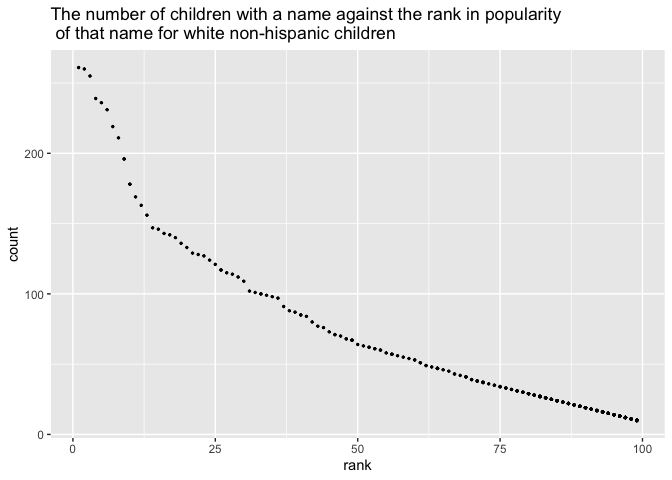
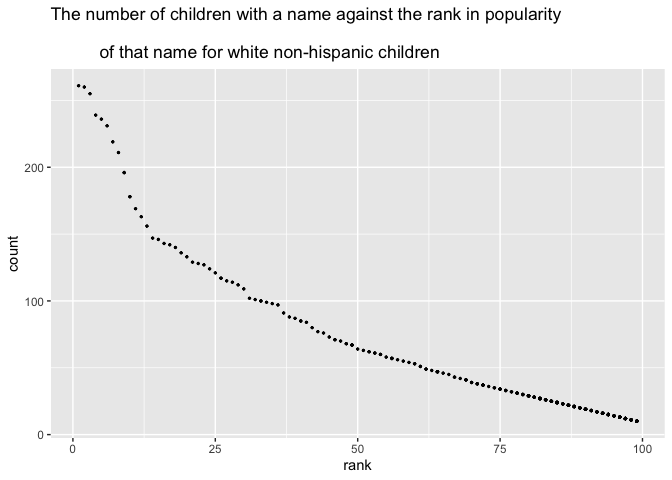
new hw2 version.

diff --git a/p8105_hw2_yw3773.md b/p8105_hw2_yw3773.md
@@ -11,26 +11,22 @@ library(constants)
 
 ``` r
 # load the manipulate the trash data.
-trash_df = read_excel("Trash-Wheel-Collection-Totals-8-6-19.xlsx", sheet = "Mr. Trash Wheel") %>%
+trash_df = read_excel("./Trash-Wheel-Collection-Totals-7-2020-2.xlsx", 
+                      sheet = "Mr. Trash Wheel") %>%
   janitor::clean_names() %>%
   select(dumpster:homes_powered) %>%
   drop_na(dumpster) %>%
   mutate(sports_balls = round(sports_balls))
-```
 
-    ## New names:
-    ## * `` -> ...15
-    ## * `` -> ...16
-    ## * `` -> ...17
-
-``` r
 # load and manipulate the 2018 precipitation data.
-eighteen_prec = read_excel("Trash-Wheel-Collection-Totals-8-6-19.xlsx", sheet = "2018 Precipitation", range = "A2:B14") %>%
+eighteen_prec = read_excel("./Trash-Wheel-Collection-Totals-7-2020-2.xlsx", 
+                           sheet = "2018 Precipitation", range = "A2:B14") %>%
   drop_na() %>%
   mutate(year = 2018)
   
 # load and manipulate the 2019 precipitation data.
-nineteen_prec = read_excel("Trash-Wheel-Collection-Totals-8-6-19.xlsx", sheet = "2019 Precipitation", range = "A2:B14") %>%
+nineteen_prec = read_excel("./Trash-Wheel-Collection-Totals-7-2020-2.xlsx", 
+                           sheet = "2019 Precipitation", range = "A2:B14") %>%
   drop_na() %>%
   mutate(year = 2019)
 
@@ -44,14 +40,14 @@ nineteen_dump = trash_df %>%
   filter(year == 2019)
 ```
 
-The Mr. Trash Wheel data set contains 14 columns and 344 rows. The data
+The Mr. Trash Wheel data set contains 14 columns and 454 rows. The data
 sets has 14 variables which are dumpster, month, year, date,
 weight\_tons, volume\_cubic\_yards, plastic\_bottles, polystyrene,
 cigarette\_butts, glass\_bottles, grocery\_bags, chip\_bags,
 sports\_balls, homes\_powered. The median of sports balls in a dumpster
-in 2019 is 8.5.
+in 2019 is 9.
 
-The combined 2018-2019 precipitation data set contains 3 columns and 18
+The combined 2018-2019 precipitation data set contains 3 columns and 24
 rows. The data set has 3 variables which are month, total, year. The
 total precipitation in 2018 is 70.33.
 
@@ -59,29 +55,16 @@ total precipitation in 2018 is 70.33.
 
 ``` r
 # load and manipulate the pol-month data.
-pol_month_df = read_csv("fivethirtyeight_datasets/pols-month.csv") %>%
+pol_month_df = read_csv("./fivethirtyeight_datasets/pols-month.csv") %>%
   janitor::clean_names() %>%
   separate(mon, into = c("year", "month", "day")) %>%
   mutate(month = month.name[as.numeric(month)]) %>%
   mutate(year = as.numeric(year)) %>%
   mutate(president = ifelse(prez_dem == 0, "gop", "dem")) %>%
   select(-day, -prez_gop, -prez_dem) 
-```
 
-    ## Rows: 822 Columns: 9
-
-    ## ── Column specification ────────────────────────────────────────────────────────
-    ## Delimiter: ","
-    ## dbl  (8): prez_gop, gov_gop, sen_gop, rep_gop, prez_dem, gov_dem, sen_dem, r...
-    ## date (1): mon
-
-    ## 
-    ## ℹ Use `spec()` to retrieve the full column specification for this data.
-    ## ℹ Specify the column types or set `show_col_types = FALSE` to quiet this message.
-
-``` r
 # load and manipulate the snp data.
-snp_df = read_csv("fivethirtyeight_datasets/snp.csv") %>%
+snp_df = read_csv("./fivethirtyeight_datasets/snp.csv") %>%
   janitor::clean_names() %>%
   mutate(date, date = lubridate::mdy(date)) %>% 
   separate(date, into = c("year", "month", "day")) %>% 
@@ -90,46 +73,21 @@ snp_df = read_csv("fivethirtyeight_datasets/snp.csv") %>%
   mutate(month = month.name[as.numeric(month)]) %>% 
   arrange(year, month) %>%
   select(-day)
-```
-
-    ## Rows: 787 Columns: 2
-
-    ## ── Column specification ────────────────────────────────────────────────────────
-    ## Delimiter: ","
-    ## chr (1): date
-    ## dbl (1): close
-
-    ## 
-    ## ℹ Use `spec()` to retrieve the full column specification for this data.
-    ## ℹ Specify the column types or set `show_col_types = FALSE` to quiet this message.
-
-``` r
+ 
 # load and manipulate the unemployment data.
-unemploy_df = read_csv("fivethirtyeight_datasets/unemployment.csv") %>%
+unemploy_df = read_csv("./fivethirtyeight_datasets/unemployment.csv") %>%
   pivot_longer(Jan:Dec, names_to = "month", values_to = "unem_percent") %>%
   janitor::clean_names() %>%
   mutate(year = as.numeric(year)) %>%
   mutate(month = month.name[match(month, month.abb)]) %>%
   arrange(year, month) 
-```
 
-    ## Rows: 68 Columns: 13
-
-    ## ── Column specification ────────────────────────────────────────────────────────
-    ## Delimiter: ","
-    ## dbl (13): Year, Jan, Feb, Mar, Apr, May, Jun, Jul, Aug, Sep, Oct, Nov, Dec
-
-    ## 
-    ## ℹ Use `spec()` to retrieve the full column specification for this data.
-    ## ℹ Specify the column types or set `show_col_types = FALSE` to quiet this message.
-
-``` r
 # merge them together
 merge_df = left_join(pol_month_df, snp_df, by = c("year", "month"))
 merge_df = left_join(merge_df, unemploy_df, by = c("year", "month"))
 ```
 
-The pol\_month data set contains 9 columns and 18 rows from 1947, 2015.
+The pol\_month data set contains 9 columns and 24 rows from 1947, 2015.
 The data set has 8 variables which are year, month, gov\_gop, sen\_gop,
 rep\_gop, gov\_dem, sen\_dem, rep\_dem, president.
 
@@ -148,46 +106,64 @@ unem\_percent.
 
 ``` r
 # load and manipulate the baby name data
-baby_df = read_csv("Popular_Baby_Names.csv") %>%
+baby_df = read_csv("./Popular_Baby_Names.csv") %>%
   janitor::clean_names() %>%
   mutate(gender = str_to_lower(gender)) %>%
   mutate(ethnicity = str_to_lower(ethnicity)) %>%
-  mutate(ethnicity = replace(ethnicity, ethnicity == "asian and pacific islander" | ethnicity == "asian and paci", "asian and pacific")) %>%
-  mutate(ethnicity = replace(ethnicity, ethnicity == "white non hisp", "white non hispanic")) %>%
-  mutate(ethnicity = replace(ethnicity, ethnicity == "black non hisp", "black non hispanic")) %>%
+  mutate(ethnicity = replace(ethnicity, 
+                             ethnicity == "asian and pacific islander" 
+                             | ethnicity == "asian and paci", 
+                             "asian and pacific")) %>%
+  mutate(ethnicity = replace(ethnicity, ethnicity == "white non hisp", 
+                             "white non hispanic")) %>%
+  mutate(ethnicity = replace(ethnicity, ethnicity == "black non hisp", 
+                             "black non hispanic")) %>%
   mutate(childs_first_name = str_to_title(childs_first_name)) %>%
   unique()
-```
 
-    ## Rows: 19418 Columns: 6
-
-    ## ── Column specification ────────────────────────────────────────────────────────
-    ## Delimiter: ","
-    ## chr (3): Gender, Ethnicity, Child's First Name
-    ## dbl (3): Year of Birth, Count, Rank
-
-    ## 
-    ## ℹ Use `spec()` to retrieve the full column specification for this data.
-    ## ℹ Specify the column types or set `show_col_types = FALSE` to quiet this message.
-
-``` r
 # create the Olivia well-structured data.
 oliva_table = baby_df %>%
   filter(childs_first_name == "Olivia") %>%
   select(-count, -gender,-childs_first_name) %>%
   pivot_wider(names_from = year_of_birth, values_from = rank)
 
+knitr::kable(oliva_table)
+```
+
+| ethnicity          | 2016 | 2015 | 2014 | 2013 | 2012 | 2011 |
+|:-------------------|-----:|-----:|-----:|-----:|-----:|-----:|
+| asian and pacific  |    1 |    1 |    1 |    3 |    3 |    4 |
+| black non hispanic |    8 |    4 |    8 |    6 |    8 |   10 |
+| hispanic           |   13 |   16 |   16 |   22 |   22 |   18 |
+| white non hispanic |    1 |    1 |    1 |    1 |    4 |    2 |
+
+``` r
 # create the most popular male baby name well-structured data.
 male_table = baby_df %>%
   filter(gender == "male", rank == 1) %>%
   select(-count, -gender, -rank) %>%
   pivot_wider(names_from = year_of_birth, values_from = childs_first_name)
 
-# make the plot of "The number of children with a name against the rank in popularity \n of that name for white non-hispanic children".
-plot_df = baby_df %>%
-  filter(gender == "male", ethnicity == "white non hispanic", year_of_birth == 2016)
+knitr::kable(male_table)
+```
 
-ggplot(plot_df, aes(x = rank, y = count)) + geom_point(size = 0.5) + ggtitle("The number of children with a name against the rank in popularity \n of that name for white non-hispanic children")
+| ethnicity          | 2016   | 2015   | 2014   | 2013   | 2012   | 2011    |
+|:-------------------|:-------|:-------|:-------|:-------|:-------|:--------|
+| asian and pacific  | Ethan  | Jayden | Jayden | Jayden | Ryan   | Ethan   |
+| black non hispanic | Noah   | Noah   | Ethan  | Ethan  | Jayden | Jayden  |
+| hispanic           | Liam   | Liam   | Liam   | Jayden | Jayden | Jayden  |
+| white non hispanic | Joseph | David  | Joseph | David  | Joseph | Michael |
+
+``` r
+# make the plot of "The number of children with a name against 
+# the rank in popularity of that name for white non-hispanic children".
+plot_df = baby_df %>%
+  filter(gender == "male", ethnicity == "white non hispanic", 
+         year_of_birth == 2016)
+
+ggplot(plot_df, aes(x = rank, y = count)) + geom_point(size = 0.5) + 
+  ggtitle("The number of children with a name against the rank in popularity \n 
+          of that name for white non-hispanic children")
 ```
 
 ![](p8105_hw2_yw3773_files/figure-gfm/unnamed-chunk-4-1.png)<!-- -->
